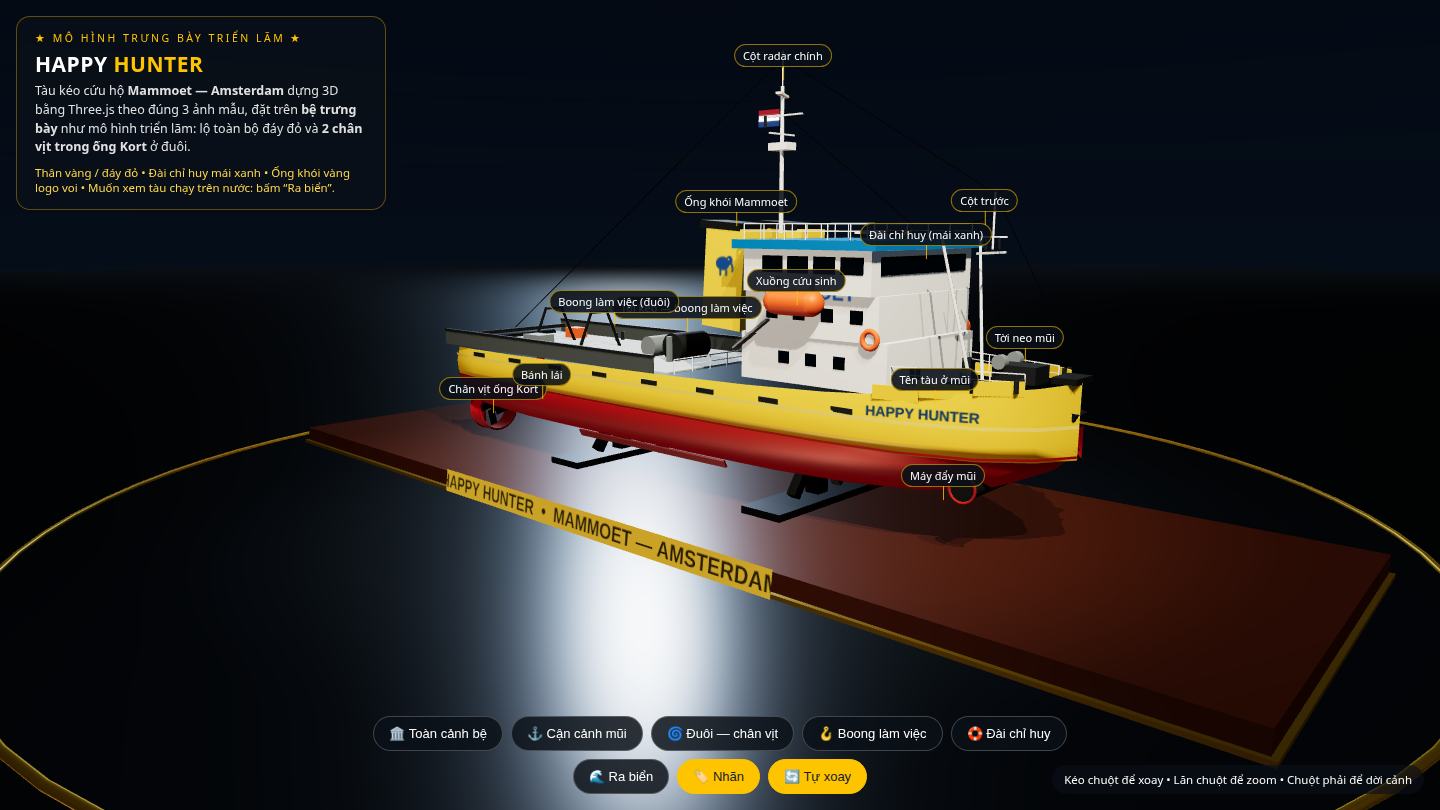
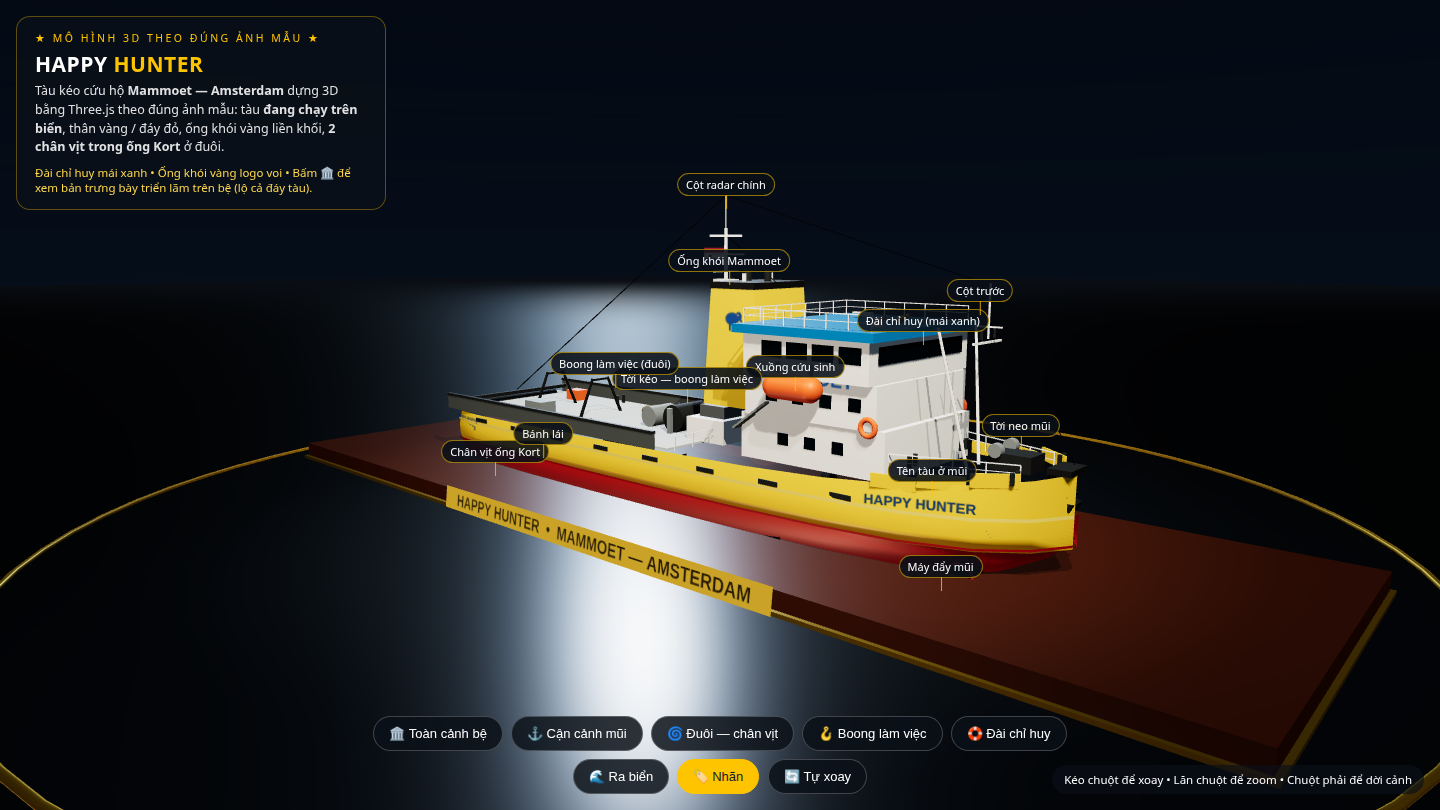
V3: match sailing photo - solid tapered funnel, mast aft of funnel, green sea + bow foam/wake, stern side names, sea scene as default (exhibition kept on toggle)

diff --git a/index.html b/index.html
@@ -34,10 +34,10 @@
 <div id="scene"></div>
 <div id="labels"></div>
 <div class="panel">
-  <div class="kick">★ Mô hình trưng bày triển lãm ★</div>
+  <div class="kick">★ Mô hình 3D theo đúng ảnh mẫu ★</div>
   <h1>HAPPY <span>HUNTER</span></h1>
-  <p>Tàu kéo cứu hộ <b>Mammoet — Amsterdam</b> dựng 3D bằng Three.js theo đúng 3 ảnh mẫu, đặt trên <b>bệ trưng bày</b> như mô hình triển lãm: lộ toàn bộ đáy đỏ và <b>2 chân vịt trong ống Kort</b> ở đuôi.</p>
-  <div class="spec">Thân vàng / đáy đỏ • Đài chỉ huy mái xanh • Ống khói vàng logo voi • Muốn xem tàu chạy trên nước: bấm “Ra biển”.</div>
+  <p>Tàu kéo cứu hộ <b>Mammoet — Amsterdam</b> dựng 3D bằng Three.js theo đúng ảnh mẫu: tàu <b>đang chạy trên biển</b>, thân vàng / đáy đỏ, ống khói vàng liền khối, <b>2 chân vịt trong ống Kort</b> ở đuôi.</p>
+  <div class="spec">Đài chỉ huy mái xanh • Ống khói vàng logo voi • Bấm 🏛 để xem bản trưng bày triển lãm trên bệ (lộ cả đáy tàu).</div>
 </div>
 <div class="bar">
   <button data-view="toan">🏛 Toàn cảnh bệ</button>
@@ -45,7 +45,7 @@
   <button data-view="dui">🌀 Đuôi — chân vịt</button>
   <button data-view="boong">🪝 Boong làm việc</button>
   <button data-view="dai">🛟 Đài chỉ huy</button>
-  <button id="btnMode">🌊 Ra biển</button>
+  <button id="btnMode" class="on">🏛 Về bệ trưng bày</button>
   <button id="btnLabels" class="on">🏷 Nhãn</button>
   <button id="btnSpin" class="on">🔄 Tự xoay</button>
 </div>
@@ -70,13 +70,13 @@ renderer.toneMappingExposure = 1.08;
 container.appendChild(renderer.domElement);
 
 const scene = new THREE.Scene();
-scene.fog = new THREE.Fog(0x0a0e14, 220, 520);
+scene.fog = new THREE.Fog(0x9fc8de, 220, 520);
 
 const camera = new THREE.PerspectiveCamera(46, innerWidth/innerHeight, 0.1, 1200);
-camera.position.set(47, 21, 51);
+camera.position.set(10, 12.5, 63);
 
 const controls = new OrbitControls(camera, renderer.domElement);
-controls.target.set(0, 8, 0);
+controls.target.set(0, 3, 0);
 controls.enableDamping = true;
 controls.dampingFactor = 0.06;
 controls.maxDistance = 220;
@@ -95,13 +95,13 @@ function skyTexture(stops){
 }
 const skyHall = skyTexture([[0,"#05080e"],[0.5,"#141e2a"],[0.78,"#232f3d"],[1,"#0a0e14"]]);
 const skyDay  = skyTexture([[0,"#3f8fc4"],[0.55,"#8ec3e2"],[0.78,"#cfe7f2"],[1,"#e8f3f7"]]);
-const skyMat = new THREE.MeshBasicMaterial({ map: skyHall, side: THREE.BackSide, fog:false });
+const skyMat = new THREE.MeshBasicMaterial({ map: skyDay, side: THREE.BackSide, fog:false });
 const sky = new THREE.Mesh(new THREE.SphereGeometry(520, 24, 16), skyMat);
 scene.add(sky);
 
 /* ============ LIGHTS ============ */
 scene.add(new THREE.HemisphereLight(0xbdd3e6, 0x2c2419, 0.75));
-const sun = new THREE.DirectionalLight(0xfff2dd, 1.5);
+const sun = new THREE.DirectionalLight(0xfff2dd, 2.6);
 sun.position.set(55, 80, 35);
 sun.castShadow = true;
 sun.shadow.mapSize.set(2048, 2048);
@@ -127,6 +127,7 @@ const spot1 = spot(46, 58, 34, 430);
 spot1.castShadow = true; spot1.shadow.mapSize.set(2048, 2048); spot1.shadow.normalBias = 0.03;
 const spot2 = spot(-50, 42, -38, 270, 0xdceaff);
 const spot3 = spot(-8, 62, 52, 200);
+spot1.intensity = 0; spot2.intensity = 0; spot3.intensity = 0;
 
 /* ============ MATERIALS / HELPERS ============ */
 const M = {
@@ -176,7 +177,7 @@ function textPlane(text, w, h, { size=90, color="#123a6e", bg=null, bold=true }=
 const ship = new THREE.Group();
 scene.add(ship);
 const SHIP_EXHIBIT_Y = 8.2;
-ship.position.y = SHIP_EXHIBIT_Y;
+ship.position.y = 0;
 
 /* Hull stations: x, halfWidth, deckY, keelY (bow = +X) */
 const ST = [
@@ -276,6 +277,10 @@ for (const s of [-1, 1]){
   nm.position.set(20.2, 2.55, s*(halfWidthAt(20.2)*1.045+0.06));
   nm.rotation.y = s>0 ? 0.34 : Math.PI - 0.34;
   ship.add(nm);
+  const sn = textPlane("HAPPY HUNTER\nAMSTERDAM", 5.6, 1.35, { size:96, color:"#12305e" });
+  sn.position.set(-23.6, 1.8, s*(halfWidthAt(-23.6)*1.03+0.03));
+  sn.rotation.y = s>0 ? -0.18 : Math.PI + 0.18;
+  ship.add(sn);
   const anch = new THREE.Group();                          // anchor
   box(0.22, 1.5, 0.22, M.black, 0, 0, 0, anch);
   box(1.15, 0.28, 0.22, M.black, 0, 0.72, 0, anch);
@@ -357,18 +362,30 @@ function elephantTexture(){
   const t = new THREE.CanvasTexture(c); t.colorSpace = THREE.SRGBColorSpace; return t;
 }
 const eleTex = elephantTexture();
-for (const s of [-1,1]){
-  const f = box(3.4, 6.6, 2.7, M.yellow2, 4.2, 9.4, s*2.95, ship);
-  f.rotation.z = -0.07;
-  box(3.5, 0.5, 2.8, M.black, 3.95, 12.85, s*2.95, ship).rotation.z = -0.07;
-  const logo = new THREE.Mesh(new THREE.PlaneGeometry(2.5, 2.5),
-    new THREE.MeshBasicMaterial({ map: eleTex, transparent:true, toneMapped:false }));
-  logo.position.set(4.35, 10.4, s*4.36); if (s<0) logo.rotation.y = Math.PI;
-  ship.add(logo);
+{
+  /* one solid tapered funnel block, like the photo: wide base -> narrower top */
+  const sh = new THREE.Shape();
+  sh.moveTo(-2.7, 0); sh.lineTo(2.7, 0); sh.lineTo(1.95, 8.2); sh.lineTo(-1.95, 8.2); sh.closePath();
+  const geo = new THREE.ExtrudeGeometry(sh, { depth: 5.4, bevelEnabled: false });
+  geo.translate(0, 0, -2.7);
+  const fun = new THREE.Mesh(geo, M.yellow2);
+  fun.position.set(3.6, 5.8, 0); fun.castShadow = true; fun.receiveShadow = true;
+  ship.add(fun);
+  box(4.0, 0.45, 5.5, M.black, 3.6, 14.15, 0, ship);                 // black cap
+  for (const px of [-0.9, 0.9]){                                     // exhaust pipes on top
+    cyl(0.26, 0.26, 0.9, M.dark, 3.6+px, 14.7, 0, ship, 10);
+    cyl(0.16, 0.16, 0.7, M.white, 3.6, 14.6, px*1.6, ship, 8);
+  }
+  for (const s of [-1,1]){
+    const logo = new THREE.Mesh(new THREE.PlaneGeometry(2.5, 2.5),
+      new THREE.MeshBasicMaterial({ map: eleTex, transparent:true, toneMapped:false }));
+    logo.position.set(3.75, 11.9, s*2.74); if (s<0) logo.rotation.y = Math.PI;
+    ship.add(logo);
+  }
 }
 
 /* ============ MASTS + RIGGING ============ */
-const mainMast = new THREE.Group(); mainMast.position.set(5.6, 12.4, 0); ship.add(mainMast);
+const mainMast = new THREE.Group(); mainMast.position.set(0.6, 8.6, 0); ship.add(mainMast);
 cyl(0.13, 0.17, 9.5, M.white, 0, 4.7, 0, mainMast, 10);
 box(3.4, 0.12, 0.12, M.white, 0, 7.6, 0, mainMast);
 box(0.12, 0.12, 2.6, M.white, 0, 6.4, 0, mainMast);
@@ -400,10 +417,10 @@ for (const s of [-1,1]) cyl(0.07, 0.07, 0.6, M.dark, 0.6, 7.9, s*0.8, foreMast, 
 /* rigging wires between masts, bow and stern */
 {
   const pts = [
-    [5.6, 23.6, 0,  21.1, 14.6, 0],   // main mast top -> fore mast top
+    [0.6, 20.3, 0,  21.1, 14.6, 0],   // main mast top -> fore mast top (the long stay in the photo)
     [21.1, 14.6, 0,  26.6, 4.9, 0],   // fore mast top -> bow tip
-    [5.6, 23.6, 0,  -25.2, 3.8, 0],   // main mast top -> stern
-    [5.6, 20.2, 0,  16.9, 12.1, 0],   // main mast -> bridge roof front
+    [0.6, 20.3, 0,  -25.2, 3.8, 0],   // main mast top -> stern
+    [0.6, 17.6, 0,  5.4, 14.2, 0],    // main mast -> funnel top front
     [21.1, 13.4, 0,  17.2, 12.1, 0],  // fore mast -> bridge roof
   ];
   const arr = [];
@@ -423,6 +440,8 @@ for (const s of [-1,1]){
 /* ============ AFT WORKING DECK ============ */
 {
   box(27, 0.14, 11.6, M.deck, -13.2, 2.83, 0, ship);
+  box(3.6, 1.7, 4.6, M.white, 0.6, 3.7, 0, ship);
+  box(2.4, 0.9, 3.0, M.grey, 0.6, 4.95, 0, ship);
   const drum = cyl(1.05, 1.05, 3.1, M.dark, -3.4, 3.95, 0, ship); drum.rotation.x = Math.PI/2;
   for (const s of [-1,1]) box(0.35, 2.0, 0.3, M.grey, -3.4, 3.8, s*1.85, ship);
   const drum2 = cyl(0.8, 0.8, 2.4, M.grey, -6.4, 3.7, 0, ship); drum2.rotation.x = Math.PI/2;
@@ -472,7 +491,7 @@ for (const s of [-1,1]){
 }
 
 /* ============ EXHIBITION STAND ============ */
-const exhibit = new THREE.Group(); scene.add(exhibit);
+const exhibit = new THREE.Group(); exhibit.visible = false; scene.add(exhibit);
 {
   /* hall floor */
   const floor = mesh(new THREE.CircleGeometry(500, 48),
@@ -506,21 +525,47 @@ const exhibit = new THREE.Group(); scene.add(exhibit);
 
 /* ============ OCEAN (sea mode) ============ */
 const oceanGeo = new THREE.PlaneGeometry(560, 560, 72, 72);
-const oceanMat = new THREE.MeshStandardMaterial({ color:0x166b74, roughness:0.62, metalness:0.0, transparent:true, opacity:0.94 });
+const oceanMat = new THREE.MeshStandardMaterial({ color:0x1a7263, roughness:0.62, metalness:0.0, transparent:true, opacity:0.94 });
 const ocean = new THREE.Mesh(oceanGeo, oceanMat);
 ocean.rotation.x = -Math.PI/2; ocean.position.y = 0;
 ocean.receiveShadow = true;
-ocean.visible = false;
+ocean.visible = true;
 scene.add(ocean);
 const oPos = oceanGeo.attributes.position;
 const oBase = oPos.array.slice();
+/* foam: bow splash, waterline collar, stern wake (sea mode only) */
+const foam = new THREE.Group(); scene.add(foam);
+function foamTexture(wake=false){
+  const c = document.createElement("canvas"); c.width = 256; c.height = 128;
+  const g = c.getContext("2d");
+  for (let i=0;i<(wake?500:900);i++){
+    const x = Math.random()*256, y = Math.random()*128;
+    const r = 2 + Math.random()*(wake?7:5);
+    const a = wake ? Math.max(0, 0.32*(1 - x/256) * Math.random()) : 0.4*Math.random();
+    g.fillStyle = `rgba(255,255,255,${a})`;
+    g.beginPath(); g.ellipse(x, y, r*1.7, r, 0, 0, Math.PI*2); g.fill();
+  }
+  const t = new THREE.CanvasTexture(c); t.colorSpace = THREE.SRGBColorSpace;
+  t.wrapS = t.wrapT = THREE.RepeatWrapping; return t;
+}
+function foamPlane(w, l, x, z, ry, wake=false){
+  const t = foamTexture(wake); t.repeat.set(2, 1);
+  const m = new THREE.Mesh(new THREE.PlaneGeometry(w, l),
+    new THREE.MeshBasicMaterial({ map:t, transparent:true, depthWrite:false, opacity: wake?0.95:0.85 }));
+  m.rotation.x = -Math.PI/2; m.rotation.z = ry;
+  m.position.set(x, 0.28, z); foam.add(m); return m;
+}
+foamPlane(15, 5.5, 23.5, 5.2, -0.55); foamPlane(15, 5.5, 23.5, -5.2, 0.55);   // bow splash
+foamPlane(47, 2.4, -2, 7.0, 0); foamPlane(47, 2.4, -2, -7.0, 0);              // collar
+foamPlane(36, 12, -42, 0, 0, true);                                            // stern wake
+foamPlane(24, 3.2, -36, 6.5, 0.5, true); foamPlane(24, 3.2, -36, -6.5, -0.5, true); // V wake
 
 /* ============ LABELS ============ */
 const labelDefs = [
   [16.8, 11.2, 0, "Đài chỉ huy (mái xanh)"],
   [12, 8.6, 6.4, "Xuồng cứu sinh"],
-  [4.2, 13.2, 3, "Ống khói Mammoet"],
-  [5.6, 22.6, 0, "Cột radar chính"],
+  [3.6, 14.6, 3, "Ống khói Mammoet"],
+  [0.6, 19.8, 0, "Cột radar chính"],
   [20.5, 13.2, 0, "Cột trước"],
   [23.4, 5.6, 0, "Tời neo mũi"],
   [22.2, -1.4, 6.4, "Máy đẩy mũi"],
@@ -539,7 +584,7 @@ const labelEls = labelDefs.map(([x,y,z,txt])=>{
 let labelsOn = true;
 
 /* ============ MODES + CAMERA PRESETS ============ */
-let mode = "exhibit"; // "exhibit" | "sea"
+let mode = "sea"; // "exhibit" | "sea"
 let camAnim = null;
 const timer = new THREE.Timer(); timer.connect(document);
 function flyTo(pos, tgt, oceanGhost=false){
@@ -557,7 +602,7 @@ function flyTo(pos, tgt, oceanGhost=false){
 function views(){
   const B = mode === "exhibit" ? SHIP_EXHIBIT_Y : 0;
   return {
-    toan:  [[47, B+13, 51], [0, B+1, 0]],
+    toan:  mode === "exhibit" ? [[47, B+13, 51], [0, B+1, 0]] : [[10, 12.5, 63], [0, 3, 0]],
     mui:   [[46, B+9, -30], [17, B+3.5, 0]],
     dui:   mode === "exhibit" ? [[-48, 3.5, 29], [-22, B-2.5, 0]] : [[-47, -11, 27], [-22, -2.5, 0], true],
     boong: [[-33, B+19, 21], [-11, B+3, 0]],
@@ -574,7 +619,7 @@ const btnMode = document.getElementById("btnMode");
 btnMode.addEventListener("click", ()=>{
   mode = mode === "exhibit" ? "sea" : "exhibit";
   const sea = mode === "sea";
-  exhibit.visible = !sea;
+  exhibit.visible = !sea; foam.visible = sea;
   ocean.visible = sea;
   skyMat.map = sea ? skyDay : skyHall; skyMat.needsUpdate = true;
   scene.fog.color.set(sea ? 0x9fc8de : 0x0a0e14);
@@ -599,7 +644,7 @@ function animate(){
   timer.update();
   const t = timer.getElapsed();
   if (mode === "sea"){
-    ship.position.y = Math.sin(t*0.55)*0.14;
+    ship.position.y += (Math.sin(t*0.55)*0.14 - ship.position.y) * 0.05;
     ship.rotation.z = Math.sin(t*0.42)*0.006;
     ship.rotation.x = Math.sin(t*0.5+1)*0.005;
   } else {
